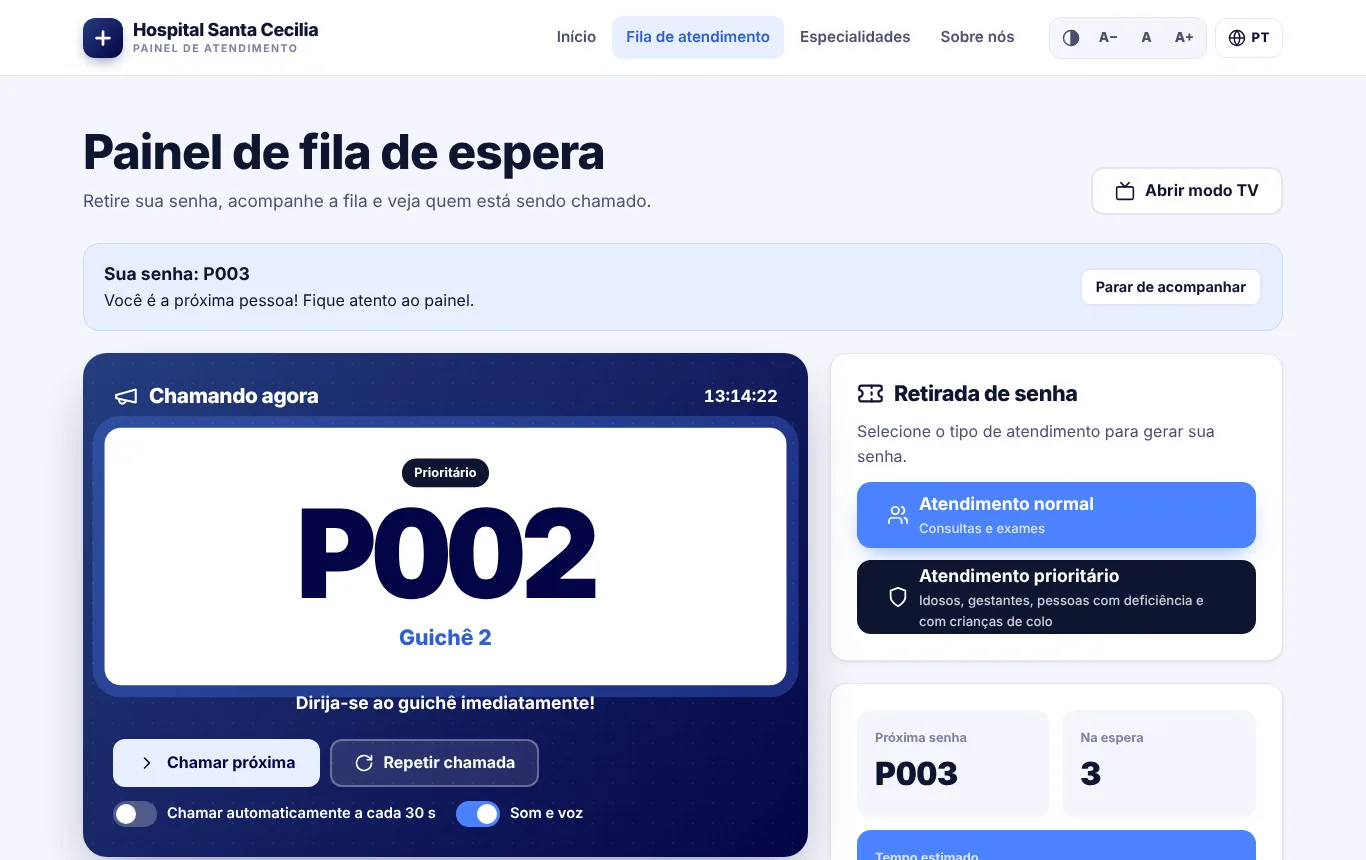
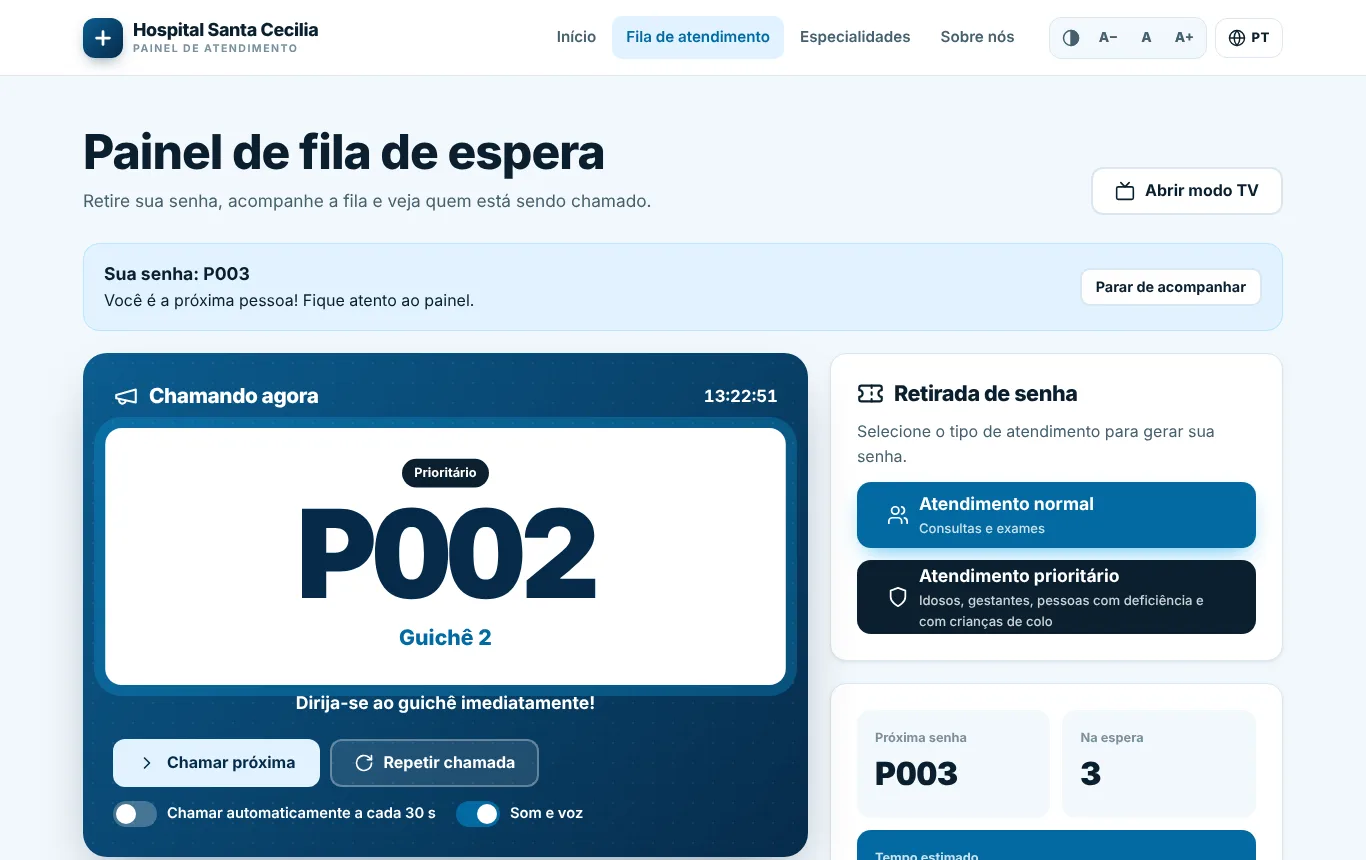
Muda o layout para um tom azul-oceano
Degradê em azul profundo, azul-céu nos detalhes e um azul mais escuro nos
botões para manter bom contraste com o texto branco.

diff --git a/css/estilo.css b/css/estilo.css
@@ -1,22 +1,25 @@
 /* ==========================================================================
    Hospital Santa Cecilia — painel de atendimento
-   Identidade original: degradê marinho (#253d7e → #040445) e azul de destaque (#4c82ff)
+   Paleta azul-oceano: degradê (#0b5c8f → #062b4a), azul-céu (#0ea5e9) nos detalhes
+   e azul profundo (#0369a1) nos botões, para manter bom contraste com o texto branco
    ========================================================================== */
 
 :root {
-    --marinho: #040445;
-    --marinho-2: #253d7e;
-    --azul: #4c82ff;
-    --azul-escuro: #2f5fd8;
-    --azul-claro: #e8efff;
-    --ciano: #4bbefc;
-    --petroleo: #2274a3;
-    --tinta: #0f1530;
-    --tinta-2: #4a5270;
-    --tinta-3: #7c84a0;
-    --fundo: #f4f6fb;
+    --marinho: #062b4a;
+    --marinho-2: #0b5c8f;
+    --azul: #0ea5e9;
+    --azul-escuro: #0369a1;
+    --azul-botao: #0369a1;
+    --azul-botao-hover: #075985;
+    --azul-claro: #e0f2fe;
+    --ciano: #38bdf8;
+    --petroleo: #0e7490;
+    --tinta: #0b1f2e;
+    --tinta-2: #45606f;
+    --tinta-3: #7a909c;
+    --fundo: #f3f8fc;
     --papel: #ffffff;
-    --linha: #e1e6f2;
+    --linha: #dbe7f0;
     --verde: #12a150;
     --verde-claro: #e3f6eb;
     --ambar: #e8a317;
@@ -27,9 +30,9 @@
     --raio-p: 10px;
     --raio: 16px;
     --raio-g: 24px;
-    --sombra-1: 0 1px 2px rgba(15, 21, 48, .06), 0 2px 8px rgba(15, 21, 48, .05);
-    --sombra-2: 0 14px 34px -14px rgba(15, 21, 48, .28);
-    --sombra-3: 0 26px 60px -20px rgba(4, 4, 69, .45);
+    --sombra-1: 0 1px 2px rgba(11, 31, 46, .06), 0 2px 8px rgba(11, 31, 46, .05);
+    --sombra-2: 0 14px 34px -14px rgba(11, 31, 46, .28);
+    --sombra-3: 0 26px 60px -20px rgba(6, 43, 74, .45);
     --largura: 1200px;
     --topo: 76px;
     --degrade: linear-gradient(135deg, var(--marinho-2) 0%, var(--marinho) 100%);
@@ -65,7 +68,7 @@ p { color: var(--tinta-2); }
 .secao-escura p { color: rgba(255, 255, 255, .78); }
 .sobretitulo { display: inline-flex; align-items: center; gap: 8px; font-size: .76rem; font-weight: 800; letter-spacing: .14em; text-transform: uppercase; color: var(--azul-escuro); }
 .sobretitulo::before { content: ""; width: 20px; height: 3px; border-radius: 3px; background: var(--azul); }
-.secao-escura .sobretitulo { color: #9db8ff; }
+.secao-escura .sobretitulo { color: #7dd3fc; }
 .cabecalho-secao { display: grid; gap: 12px; max-width: 680px; margin-bottom: 40px; }
 .cabecalho-secao h2 { font-size: clamp(1.9rem, 3.4vw, 2.6rem); }
 .cabecalho-secao p { font-size: 1.08rem; }
@@ -82,8 +85,8 @@ p { color: var(--tinta-2); }
     transition: background-color .2s ease, color .2s ease, border-color .2s ease, transform .15s ease, box-shadow .2s ease;
 }
 .botao:active { transform: scale(.98); }
-.botao-primario { background: var(--azul); color: #fff; box-shadow: 0 10px 24px -10px rgba(76, 130, 255, .8); }
-.botao-primario:hover { background: var(--azul-escuro); color: #fff; }
+.botao-primario { background: var(--azul-botao); color: #fff; box-shadow: 0 10px 24px -10px rgba(14, 165, 233, .8); }
+.botao-primario:hover { background: var(--azul-botao-hover); color: #fff; }
 .botao-escuro { background: var(--tinta); color: #fff; }
 .botao-escuro:hover { background: #000; color: #fff; }
 .botao-contorno { border-color: var(--linha); background: var(--papel); color: var(--tinta); }
@@ -115,7 +118,7 @@ p { color: var(--tinta-2); }
 }
 .topo .container { height: 100%; display: flex; align-items: center; gap: 20px; }
 .marca { display: inline-flex; align-items: center; gap: 10px; text-decoration: none; color: var(--tinta); flex: none; }
-.marca-icone { width: 40px; height: 40px; border-radius: 12px; background: var(--degrade); display: grid; place-items: center; color: #fff; box-shadow: 0 6px 16px -6px rgba(4, 4, 69, .6); }
+.marca-icone { width: 40px; height: 40px; border-radius: 12px; background: var(--degrade); display: grid; place-items: center; color: #fff; box-shadow: 0 6px 16px -6px rgba(6, 43, 74, .6); }
 .marca-icone svg { width: 22px; height: 22px; stroke-width: 3; }
 .marca-nome { font-weight: 800; font-size: 1.12rem; line-height: 1.05; letter-spacing: -0.02em; }
 .marca-nome small { display: block; font-size: .66rem; font-weight: 700; letter-spacing: .14em; text-transform: uppercase; color: var(--tinta-3); margin-top: 3px; }
@@ -156,7 +159,7 @@ p { color: var(--tinta-2); }
 .globo-lista li { display: flex; justify-content: space-between; align-items: center; gap: 8px; padding: 9px 12px; border-radius: 10px; cursor: pointer; font-size: .93rem; outline: none; }
 .globo-lista li small { font-size: .66rem; font-weight: 800; letter-spacing: .06em; text-transform: uppercase; color: var(--tinta-3); }
 .globo-lista li:hover, .globo-lista li:focus { background: var(--azul-claro); }
-.globo-lista li[aria-selected="true"] { background: var(--azul); color: #fff; font-weight: 700; }
+.globo-lista li[aria-selected="true"] { background: var(--azul-botao); color: #fff; font-weight: 700; }
 .globo-lista li[aria-selected="true"] small { color: rgba(255, 255, 255, .8); }
 .gaveta .globo { width: 100%; }
 .gaveta .globo-botao { width: 100%; justify-content: center; height: 46px; }
@@ -168,7 +171,7 @@ p { color: var(--tinta-2); }
 body { top: 0 !important; }
 font { background: none !important; box-shadow: none !important; }
 .aviso-traducao { position: fixed; left: 50%; bottom: 20px; transform: translateX(-50%); z-index: 45; display: flex; flex-wrap: wrap; align-items: center; gap: 12px; max-width: min(560px, calc(100% - 32px)); padding: 14px 16px; border-radius: var(--raio); background: var(--tinta); color: #fff; font-size: .9rem; box-shadow: var(--sombra-3); }
-.aviso-traducao button { height: 36px; padding: 0 14px; border-radius: 999px; background: var(--azul); color: #fff; font-weight: 700; }
+.aviso-traducao button { height: 36px; padding: 0 14px; border-radius: 999px; background: var(--azul-botao); color: #fff; font-weight: 700; }
 
 /* ---------- Rodapé ---------- */
 .rodape { background: var(--marinho); color: rgba(255, 255, 255, .72); padding: 64px 0 28px; }
@@ -179,26 +182,26 @@ font { background: none !important; box-shadow: none !important; }
 .rodape h3 { font-size: .76rem; font-weight: 800; letter-spacing: .14em; text-transform: uppercase; color: rgba(255, 255, 255, .5); margin-bottom: 14px; }
 .rodape ul { display: grid; gap: 10px; }
 .rodape a { color: rgba(255, 255, 255, .88); text-decoration: none; font-size: .95rem; }
-.rodape a:hover { color: #9db8ff; }
+.rodape a:hover { color: #7dd3fc; }
 .rodape li { display: flex; gap: 10px; align-items: flex-start; font-size: .95rem; }
-.rodape li .icone { margin-top: 3px; color: #9db8ff; }
+.rodape li .icone { margin-top: 3px; color: #7dd3fc; }
 .desenvolvedora { margin-top: 44px; padding: 20px 24px; border-radius: var(--raio); display: flex; flex-wrap: wrap; justify-content: space-between; align-items: center; gap: 14px; background: rgba(255, 255, 255, .05); border: 1px solid rgba(255, 255, 255, .1); }
 .desenvolvedora small { display: block; font-size: .7rem; font-weight: 800; letter-spacing: .14em; text-transform: uppercase; color: rgba(255, 255, 255, .5); }
 .desenvolvedora strong { color: #fff; font-size: 1.1rem; }
 .desenvolvedora-links { display: flex; flex-wrap: wrap; gap: 8px; }
 .desenvolvedora-links a { display: inline-flex; align-items: center; gap: 8px; height: 40px; padding: 0 16px; border-radius: 999px; border: 1px solid rgba(255, 255, 255, .2); color: #fff; font-weight: 700; font-size: .9rem; }
-.desenvolvedora-links a:hover { background: var(--azul); border-color: var(--azul); color: #fff; }
+.desenvolvedora-links a:hover { background: var(--azul-botao); border-color: var(--azul-botao); color: #fff; }
 .desenvolvedora-links .icone { width: 18px; height: 18px; }
 .rodape-base { margin-top: 24px; padding-top: 20px; border-top: 1px solid rgba(255, 255, 255, .1); display: flex; flex-wrap: wrap; justify-content: space-between; gap: 10px; font-size: .84rem; color: rgba(255, 255, 255, .5); }
 
 /* ---------- Início: abertura ---------- */
 .hero { position: relative; overflow: hidden; background: var(--degrade); color: #fff; padding: 72px 0 120px; }
-.hero::before { content: ""; position: absolute; inset: 0; pointer-events: none; background: radial-gradient(520px circle at 10% 20%, rgba(76, 130, 255, .35), transparent 60%), radial-gradient(460px circle at 95% 80%, rgba(75, 190, 252, .22), transparent 60%); }
+.hero::before { content: ""; position: absolute; inset: 0; pointer-events: none; background: radial-gradient(520px circle at 10% 20%, rgba(14, 165, 233, .35), transparent 60%), radial-gradient(460px circle at 95% 80%, rgba(56, 189, 248, .22), transparent 60%); }
 .hero::after { content: ""; position: absolute; inset: 0; pointer-events: none; opacity: .5; background-image: radial-gradient(rgba(255, 255, 255, .08) 1px, transparent 1px); background-size: 22px 22px; }
 .hero .container { position: relative; z-index: 1; display: grid; grid-template-columns: 1.15fr .85fr; gap: 48px; align-items: center; }
 .hero h1 { color: #fff; font-size: clamp(2.4rem, 5.2vw, 4rem); line-height: 1.04; letter-spacing: -0.035em; margin: 16px 0 18px; }
-.hero h1 span { color: #9db8ff; }
-.hero .sobretitulo { color: #9db8ff; }
+.hero h1 span { color: #7dd3fc; }
+.hero .sobretitulo { color: #7dd3fc; }
 .hero-texto { font-size: 1.15rem; color: rgba(255, 255, 255, .82); max-width: 52ch; }
 .hero-acoes { display: flex; flex-wrap: wrap; gap: 12px; margin-top: 28px; }
 .relogio { display: inline-flex; align-items: center; gap: 8px; margin-top: 30px; font-variant-numeric: tabular-nums; color: rgba(255, 255, 255, .7); font-size: .95rem; }
@@ -252,7 +255,7 @@ font { background: none !important; box-shadow: none !important; }
 .horarios { display: grid; grid-template-columns: repeat(auto-fill, minmax(84px, 1fr)); gap: 8px; }
 .horarios button { min-height: 44px; border-radius: 10px; border: 1.5px solid var(--linha); background: var(--papel); font-weight: 700; font-variant-numeric: tabular-nums; transition: all .15s ease; }
 .horarios button:hover:not([disabled]) { border-color: var(--azul); color: var(--azul-escuro); }
-.horarios button[aria-pressed="true"] { background: var(--azul); border-color: var(--azul); color: #fff; }
+.horarios button[aria-pressed="true"] { background: var(--azul-botao); border-color: var(--azul-botao); color: #fff; }
 .horarios button[disabled] { text-decoration: line-through; color: var(--tinta-3); background: var(--fundo); cursor: not-allowed; }
 .horarios-vazio { padding: 16px; border-radius: 12px; border: 1.5px dashed var(--linha); color: var(--tinta-3); font-size: .92rem; text-align: center; }
 .confirmacao { display: grid; gap: 12px; padding: 22px; border-radius: var(--raio); background: var(--verde-claro); border: 1px solid #bfe8cf; }
@@ -275,10 +278,10 @@ font { background: none !important; box-shadow: none !important; }
 .carrossel-controles { position: absolute; left: 340px; right: 40px; bottom: 22px; display: flex; justify-content: space-between; align-items: center; }
 .pontos { display: flex; gap: 8px; }
 .pontos button { width: 10px; height: 10px; border-radius: 999px; background: var(--linha); transition: width .3s ease, background-color .3s ease; }
-.pontos button[aria-current="true"] { width: 28px; background: var(--azul); }
+.pontos button[aria-current="true"] { width: 28px; background: var(--azul-botao); }
 .setas { display: flex; gap: 8px; }
 .setas button { width: 42px; height: 42px; border-radius: 50%; display: grid; place-items: center; border: 1px solid var(--linha); background: var(--papel); }
-.setas button:hover { background: var(--azul); border-color: var(--azul); color: #fff; }
+.setas button:hover { background: var(--azul-botao); border-color: var(--azul-botao); color: #fff; }
 
 /* ---------- Avaliação ---------- */
 .avaliacao { display: grid; gap: 16px; }
@@ -310,13 +313,13 @@ font { background: none !important; box-shadow: none !important; }
 .chamando-aviso { text-align: center; font-weight: 700; font-size: 1.1rem; color: #fff; }
 .chamando-vazio { margin-top: 22px; padding: 40px 16px; border: 2px dashed rgba(255, 255, 255, .35); border-radius: var(--raio); text-align: center; font-size: 1.1rem; color: rgba(255, 255, 255, .8); }
 .chamando.pulsando .chamando-numero { animation: chamar 1s ease 3; }
-@keyframes chamar { 0%, 100% { transform: none; box-shadow: 0 0 0 0 rgba(76, 130, 255, 0); } 50% { transform: scale(1.03); box-shadow: 0 0 0 14px rgba(76, 130, 255, .35); } }
+@keyframes chamar { 0%, 100% { transform: none; box-shadow: 0 0 0 0 rgba(14, 165, 233, 0); } 50% { transform: scale(1.03); box-shadow: 0 0 0 14px rgba(14, 165, 233, .35); } }
 
 .controles-atendente { display: flex; flex-wrap: wrap; gap: 10px; margin-top: 22px; }
 .interruptor { display: inline-flex; align-items: center; gap: 10px; font-weight: 600; font-size: .92rem; cursor: pointer; }
 .interruptor input { appearance: none; -webkit-appearance: none; width: 44px; height: 26px; border-radius: 999px; background: rgba(255, 255, 255, .25); position: relative; cursor: pointer; transition: background-color .2s ease; }
 .interruptor input::after { content: ""; position: absolute; top: 3px; left: 3px; width: 20px; height: 20px; border-radius: 50%; background: #fff; transition: transform .2s ease; }
-.interruptor input:checked { background: var(--azul); }
+.interruptor input:checked { background: var(--azul-botao); }
 .interruptor input:checked::after { transform: translateX(18px); }
 .interruptor.escuro input { background: var(--linha); }
 .interruptor.escuro input:checked { background: var(--azul); }
@@ -324,7 +327,7 @@ font { background: none !important; box-shadow: none !important; }
 
 .lista-espera { display: grid; gap: 10px; }
 .senha-item { display: grid; grid-template-columns: auto 1fr auto; gap: 14px; align-items: center; padding: 14px 16px; border-radius: 14px; background: var(--papel); border: 1px solid var(--linha); border-left: 5px solid var(--ciano); animation: entrar .35s ease; }
-.senha-item.prioridade { background: #11152c; color: #fff; border-color: #11152c; border-left-color: var(--petroleo); }
+.senha-item.prioridade { background: #0b2236; color: #fff; border-color: #0b2236; border-left-color: var(--petroleo); }
 .senha-item.prioridade p, .senha-item.prioridade small { color: rgba(255, 255, 255, .7); }
 .senha-item.minha { outline: 3px solid var(--azul); outline-offset: 2px; }
 .senha-posicao { width: 38px; height: 38px; border-radius: 10px; display: grid; place-items: center; font-weight: 900; background: var(--azul-claro); color: var(--azul-escuro); }
@@ -343,18 +346,18 @@ font { background: none !important; box-shadow: none !important; }
 .indicador { padding: 18px; border-radius: 14px; background: var(--fundo); }
 .indicador small { display: block; font-size: .8rem; font-weight: 700; color: var(--tinta-3); }
 .indicador strong { font-size: 2rem; font-weight: 900; font-variant-numeric: tabular-nums; }
-.indicador.destaque { background: var(--azul); color: #fff; }
+.indicador.destaque { background: var(--azul-botao); color: #fff; }
 .indicador.destaque small { color: rgba(255, 255, 255, .8); }
 .historico li { display: flex; justify-content: space-between; padding: 10px 0; border-bottom: 1px solid var(--linha); font-variant-numeric: tabular-nums; }
 .historico li:last-child { border-bottom: 0; }
 .historico strong { font-weight: 800; }
 
-.minha-senha-faixa { display: flex; flex-wrap: wrap; justify-content: space-between; align-items: center; gap: 12px; padding: 16px 20px; margin-bottom: 22px; border-radius: var(--raio); background: var(--azul-claro); border: 1px solid #c9d8ff; }
+.minha-senha-faixa { display: flex; flex-wrap: wrap; justify-content: space-between; align-items: center; gap: 12px; padding: 16px 20px; margin-bottom: 22px; border-radius: var(--raio); background: var(--azul-claro); border: 1px solid #bae6fd; }
 .minha-senha-faixa strong { font-size: 1.1rem; }
 .minha-senha-faixa.chamada { background: var(--verde-claro); border-color: #bfe8cf; animation: chamar 1s ease 3; }
 
 /* Comprovante da senha (janela) */
-.janela { position: fixed; inset: 0; z-index: 200; display: grid; place-items: center; padding: 20px; background: rgba(4, 4, 30, .6); backdrop-filter: blur(4px); -webkit-backdrop-filter: blur(4px); animation: aparecer .2s ease; }
+.janela { position: fixed; inset: 0; z-index: 200; display: grid; place-items: center; padding: 20px; background: rgba(3, 22, 38, .6); backdrop-filter: blur(4px); -webkit-backdrop-filter: blur(4px); animation: aparecer .2s ease; }
 .janela[hidden] { display: none; }
 .janela-caixa { position: relative; width: min(420px, 100%); max-height: calc(100vh - 40px); overflow-y: auto; border-radius: var(--raio-g); background: var(--papel); box-shadow: var(--sombra-3); }
 .comprovante { padding: 30px 28px; text-align: center; display: grid; gap: 10px; }
@@ -392,11 +395,11 @@ font { background: none !important; box-shadow: none !important; }
 .tv-espera small { color: rgba(255, 255, 255, .7); }
 .tv-espera strong { display: block; font-size: 2.2rem; }
 .tv-rodape { display: flex; align-items: center; gap: 0; background: rgba(0, 0, 0, .25); overflow: hidden; }
-.tv-rodape .rotulo { flex: none; padding: 14px 22px; background: var(--azul); font-weight: 900; text-transform: uppercase; letter-spacing: .1em; }
+.tv-rodape .rotulo { flex: none; padding: 14px 22px; background: var(--azul-botao); font-weight: 900; text-transform: uppercase; letter-spacing: .1em; }
 .tv-letreiro { overflow: hidden; flex: 1; }
 .tv-letreiro div { display: inline-flex; gap: 60px; padding-left: 100%; white-space: nowrap; animation: letreiro 40s linear infinite; font-size: 1.1rem; }
 @keyframes letreiro { to { transform: translateX(-100%); } }
-.tv-ativar { position: fixed; inset: 0; z-index: 10; display: grid; place-items: center; background: rgba(4, 4, 30, .75); }
+.tv-ativar { position: fixed; inset: 0; z-index: 10; display: grid; place-items: center; background: rgba(3, 22, 38, .75); }
 .tv-ativar[hidden] { display: none; }
 .tv-ativar div { display: grid; gap: 14px; justify-items: center; text-align: center; max-width: 440px; padding: 30px; }
 .tv-ativar p { color: rgba(255, 255, 255, .8); }

diff --git a/index.html b/index.html
@@ -6,15 +6,15 @@
     <title>Início · Hospital Santa Cecilia</title>
     <meta name="description" content="Painel de atendimento do Hospital Santa Cecilia: retire sua senha, acompanhe a fila em tempo real e agende consultas.">
     <meta name="author" content="Beatriz Oliveira">
-    <meta name="theme-color" content="#040445">
+    <meta name="theme-color" content="#062b4a">
     <link rel="icon" href="./favicon.svg" type="image/svg+xml">
-    <link rel="stylesheet" href="./css/estilo.css?v=202611261312">
-    <script src="./js/textos.js?v=202611261312"></script>
-    <script src="./js/i18n.js?v=202611261312"></script>
+    <link rel="stylesheet" href="./css/estilo.css?v=202611261322">
+    <script src="./js/textos.js?v=202611261322"></script>
+    <script src="./js/i18n.js?v=202611261322"></script>
 </head>
 <body>
 <div id="topo"></div>
-<script src="./js/layout.js?v=202611261312"></script>
+<script src="./js/layout.js?v=202611261322"></script>
 
 <main id="conteudo">
     <!-- Abertura -->
@@ -171,8 +171,8 @@
 </main>
 
 <div id="rodape"></div>
-<script src="./js/fila.js?v=202611261312"></script>
-<script src="./js/dados.js?v=202611261312"></script>
-<script src="./js/inicio.js?v=202611261312"></script>
+<script src="./js/fila.js?v=202611261322"></script>
+<script src="./js/dados.js?v=202611261322"></script>
+<script src="./js/inicio.js?v=202611261322"></script>
 </body>
 </html>

diff --git a/fila.html b/fila.html
@@ -6,15 +6,15 @@
     <title>Fila de atendimento · Hospital Santa Cecilia</title>
     <meta name="description" content="Painel de fila de espera: retire sua senha, acompanhe a fila e veja quem está sendo chamado.">
     <meta name="author" content="Beatriz Oliveira">
-    <meta name="theme-color" content="#040445">
+    <meta name="theme-color" content="#062b4a">
     <link rel="icon" href="./favicon.svg" type="image/svg+xml">
-    <link rel="stylesheet" href="./css/estilo.css?v=202611261312">
-    <script src="./js/textos.js?v=202611261312"></script>
-    <script src="./js/i18n.js?v=202611261312"></script>
+    <link rel="stylesheet" href="./css/estilo.css?v=202611261322">
+    <script src="./js/textos.js?v=202611261322"></script>
+    <script src="./js/i18n.js?v=202611261322"></script>
 </head>
 <body>
 <div id="topo"></div>
-<script src="./js/layout.js?v=202611261312"></script>
+<script src="./js/layout.js?v=202611261322"></script>
 
 <main id="conteudo">
     <header class="cabecalho-pagina">
@@ -119,7 +119,7 @@
 </div>
 
 <div id="rodape"></div>
-<script src="./js/fila.js?v=202611261312"></script>
-<script src="./js/painel.js?v=202611261312"></script>
+<script src="./js/fila.js?v=202611261322"></script>
+<script src="./js/painel.js?v=202611261322"></script>
 </body>
 </html>

diff --git a/especialidades.html b/especialidades.html
@@ -6,15 +6,15 @@
     <title>Especialidades · Hospital Santa Cecilia</title>
     <meta name="description" content="Especialidades do Hospital Santa Cecilia: encontre e agende sua consulta.">
     <meta name="author" content="Beatriz Oliveira">
-    <meta name="theme-color" content="#040445">
+    <meta name="theme-color" content="#062b4a">
     <link rel="icon" href="./favicon.svg" type="image/svg+xml">
-    <link rel="stylesheet" href="./css/estilo.css?v=202611261312">
-    <script src="./js/textos.js?v=202611261312"></script>
-    <script src="./js/i18n.js?v=202611261312"></script>
+    <link rel="stylesheet" href="./css/estilo.css?v=202611261322">
+    <script src="./js/textos.js?v=202611261322"></script>
+    <script src="./js/i18n.js?v=202611261322"></script>
 </head>
 <body>
 <div id="topo"></div>
-<script src="./js/layout.js?v=202611261312"></script>
+<script src="./js/layout.js?v=202611261322"></script>
 
 <main id="conteudo">
     <header class="cabecalho-pagina">
@@ -35,7 +35,7 @@
 </main>
 
 <div id="rodape"></div>
-<script src="./js/dados.js?v=202611261312"></script>
+<script src="./js/dados.js?v=202611261322"></script>
 <script>
 (function () {
     const lista = document.getElementById('listaEsp');

diff --git a/404.html b/404.html
@@ -6,15 +6,15 @@
     <title>Página não encontrada · Hospital Santa Cecilia</title>
     <meta name="description" content="Página não encontrada.">
     <meta name="author" content="Beatriz Oliveira">
-    <meta name="theme-color" content="#040445">
+    <meta name="theme-color" content="#062b4a">
     <link rel="icon" href="/Painel-de-atendimento/favicon.svg" type="image/svg+xml">
-    <link rel="stylesheet" href="/Painel-de-atendimento/css/estilo.css?v=202611261312">
-    <script src="/Painel-de-atendimento/js/textos.js?v=202611261312"></script>
-    <script src="/Painel-de-atendimento/js/i18n.js?v=202611261312"></script>
+    <link rel="stylesheet" href="/Painel-de-atendimento/css/estilo.css?v=202611261322">
+    <script src="/Painel-de-atendimento/js/textos.js?v=202611261322"></script>
+    <script src="/Painel-de-atendimento/js/i18n.js?v=202611261322"></script>
 </head>
 <body>
 <div id="topo"></div>
-<script src="/Painel-de-atendimento/js/layout.js?v=202611261312"></script>
+<script src="/Painel-de-atendimento/js/layout.js?v=202611261322"></script>
 
 <main id="conteudo" class="nao-encontrada">
     <div>

diff --git a/tv.html b/tv.html
@@ -6,11 +6,11 @@
     <title>Modo TV · Hospital Santa Cecilia</title>
     <meta name="description" content="Tela da sala de espera com as senhas chamadas.">
     <meta name="author" content="Beatriz Oliveira">
-    <meta name="theme-color" content="#040445">
+    <meta name="theme-color" content="#062b4a">
     <link rel="icon" href="./favicon.svg" type="image/svg+xml">
-    <link rel="stylesheet" href="./css/estilo.css?v=202611261312">
-    <script src="./js/textos.js?v=202611261312"></script>
-    <script src="./js/i18n.js?v=202611261312"></script>
+    <link rel="stylesheet" href="./css/estilo.css?v=202611261322">
+    <script src="./js/textos.js?v=202611261322"></script>
+    <script src="./js/i18n.js?v=202611261322"></script>
 </head>
 <body>
 <div class="tv">
@@ -47,7 +47,7 @@
     </div>
 </div>
 
-<script src="./js/fila.js?v=202611261312"></script>
-<script src="./js/tv.js?v=202611261312"></script>
+<script src="./js/fila.js?v=202611261322"></script>
+<script src="./js/tv.js?v=202611261322"></script>
 </body>
 </html>

diff --git a/sobre.html b/sobre.html
@@ -6,15 +6,15 @@
     <title>Sobre nós · Hospital Santa Cecilia</title>
     <meta name="description" content="Conheça a história, a missão, a visão e os valores do Hospital Santa Cecilia.">
     <meta name="author" content="Beatriz Oliveira">
-    <meta name="theme-color" content="#040445">
+    <meta name="theme-color" content="#062b4a">
     <link rel="icon" href="./favicon.svg" type="image/svg+xml">
-    <link rel="stylesheet" href="./css/estilo.css?v=202611261312">
-    <script src="./js/textos.js?v=202611261312"></script>
-    <script src="./js/i18n.js?v=202611261312"></script>
+    <link rel="stylesheet" href="./css/estilo.css?v=202611261322">
+    <script src="./js/textos.js?v=202611261322"></script>
+    <script src="./js/i18n.js?v=202611261322"></script>
 </head>
 <body>
 <div id="topo"></div>
-<script src="./js/layout.js?v=202611261312"></script>
+<script src="./js/layout.js?v=202611261322"></script>
 
 <main id="conteudo">
     <header class="cabecalho-pagina">

diff --git a/js/inicio.js b/js/inicio.js
@@ -171,10 +171,10 @@
 
     // ---------- Notícias ----------
     const NOTICIAS = [
-        { n: 1, icone: 'seringa', cor: 'linear-gradient(135deg,#253d7e,#4c82ff)' },
-        { n: 2, icone: 'sol', cor: 'linear-gradient(135deg,#2274a3,#4bbefc)' },
-        { n: 3, icone: 'pulmao', cor: 'linear-gradient(135deg,#040445,#2274a3)' },
-        { n: 4, icone: 'ticket', cor: 'linear-gradient(135deg,#2f5fd8,#4bbefc)' },
+        { n: 1, icone: 'seringa', cor: 'linear-gradient(135deg,#0b5c8f,#0ea5e9)' },
+        { n: 2, icone: 'sol', cor: 'linear-gradient(135deg,#0e7490,#38bdf8)' },
+        { n: 3, icone: 'pulmao', cor: 'linear-gradient(135deg,#062b4a,#0e7490)' },
+        { n: 4, icone: 'ticket', cor: 'linear-gradient(135deg,#0284c7,#38bdf8)' },
     ];
     let slide = 0;
     let timer = null;
